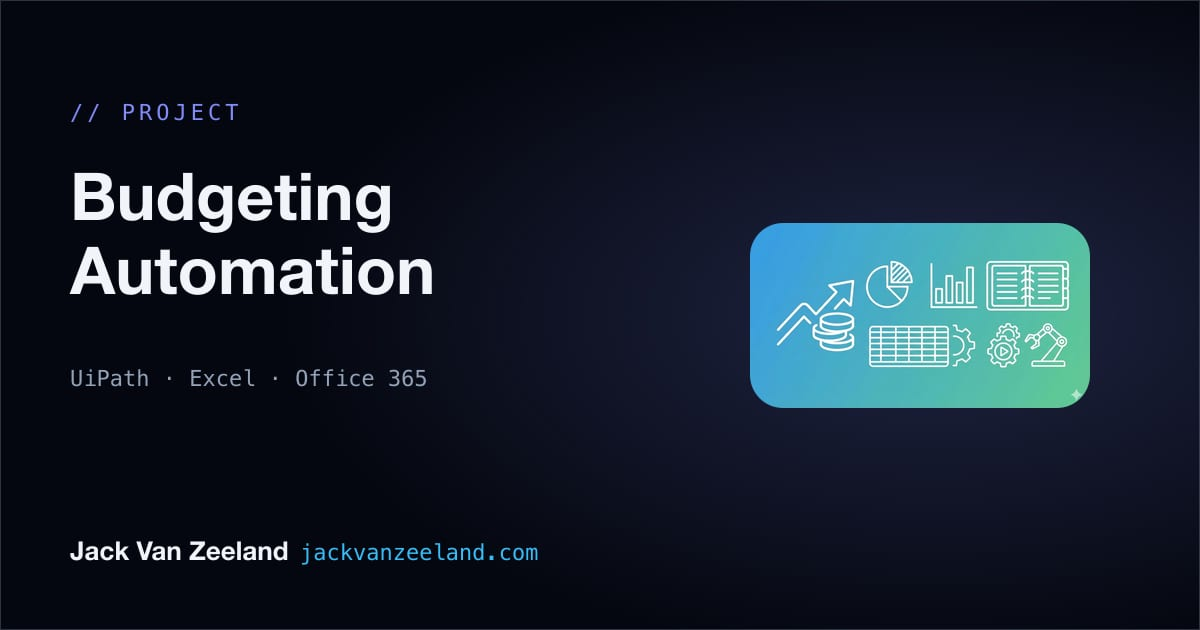
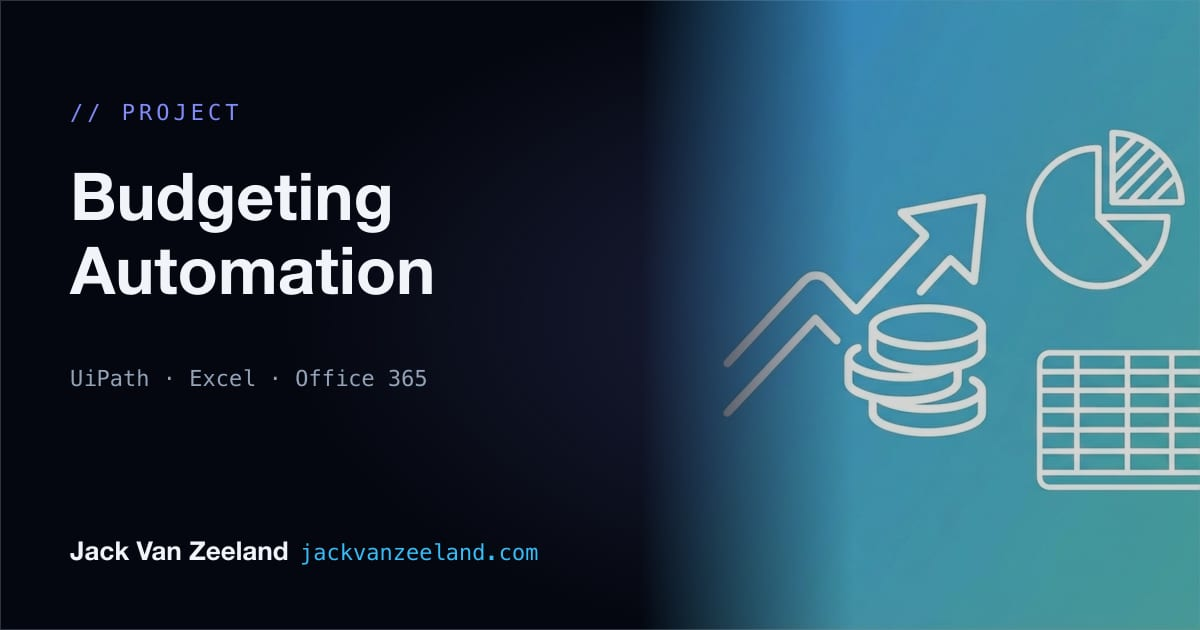
Auto-commit: 11 file(s) changed
- public/og/projects/basketball-optimization.jpg
  - public/og/projects/budgeting-automation.jpg
  - public/og/projects/html-gems.jpg
  - public/og/projects/lyric-animator.jpg
  - public/og/projects/qr-code-generator.jpg
  - public/og/projects/reddit-stories.jpg
  - public/og/projects/secret-santa.jpg
  - public/og/projects/uipath-queue-processor.jpg
  - public/og/projects/wordle-solver.jpg
  - src/data/projects.ts
  - tests/views-projects.test.ts

diff --git a/src/data/projects.ts b/src/data/projects.ts
@@ -106,7 +106,7 @@ export const PROJECTS: Project[] = [
     tags: ["Sports", "Data"],
     github_link: "",
     image: "superBowlMain.png",
-    imageStyle: "icon",
+    imageStyle: "cover",
     page: "",
     is_interactive: false,
     featured: true,
@@ -124,7 +124,7 @@ export const PROJECTS: Project[] = [
     technologies: ["React", "TypeScript", "Vite"],
     tags: ["Finance", "Tools"],
     github_link: "",
-    image: "mortgageSimulator.jpg",
+    image: "https://jackvanzeeland.com/projects/mortgage-simulator/logo.jpg",
     imageStyle: "icon",
     page: "",
     is_interactive: true,
@@ -143,7 +143,7 @@ export const PROJECTS: Project[] = [
     tags: ["Games", "Data"],
     github_link: "",
     image: "wordleMain.png",
-    imageStyle: "icon",
+    imageStyle: "cover",
     page: "wordle-solver",
     is_interactive: true,
     youtube_link: "",
@@ -163,7 +163,7 @@ export const PROJECTS: Project[] = [
     tags: ["Tools"],
     github_link: "",
     image: "partnerMatchingMain.jpeg",
-    imageStyle: "icon",
+    imageStyle: "cover",
     page: "secret-santa",
     is_interactive: true,
     youtube_link: "",
@@ -181,7 +181,7 @@ export const PROJECTS: Project[] = [
     tags: ["Creative"],
     github_link: "",
     image: "BangerBank.png",
-    imageStyle: "icon",
+    imageStyle: "cover",
     page: "lyric-animator",
     is_interactive: true,
     youtube_link: "",
@@ -199,7 +199,7 @@ export const PROJECTS: Project[] = [
     tags: ["Automation", "Finance"],
     github_link: "",
     image: "budgetingMain.jpeg",
-    imageStyle: "icon",
+    imageStyle: "cover",
     page: "budgeting-automation",
     is_interactive: false,
     youtube_link: "",
@@ -219,7 +219,7 @@ export const PROJECTS: Project[] = [
     tags: ["Sports", "Data"],
     github_link: "https://github.com/jackvanzeeland/basketballLineupAnalysis",
     image: "basketballMain.jpeg",
-    imageStyle: "icon",
+    imageStyle: "cover",
     page: "basketball-optimization",
     is_interactive: false,
     youtube_link: "",
@@ -240,7 +240,7 @@ export const PROJECTS: Project[] = [
     tags: ["Automation", "Creative"],
     github_link: "",
     image: "redditStories.jpeg",
-    imageStyle: "icon",
+    imageStyle: "cover",
     page: "",
     is_interactive: false,
     youtube_link: "https://www.youtube.com/@redditStories_JVZ",
@@ -259,7 +259,7 @@ export const PROJECTS: Project[] = [
     tags: ["Tools", "Artifact"],
     github_link: "",
     image: "professional-qr-code-contact.png",
-    imageStyle: "icon",
+    imageStyle: "cover",
     page: "qr-code-generator",
     is_interactive: true,
     youtube_link: "",
@@ -277,7 +277,7 @@ export const PROJECTS: Project[] = [
     tags: ["Automation", "Tools", "Artifact"],
     github_link: "",
     image: "uipath_logo.jpeg",
-    imageStyle: "icon",
+    imageStyle: "cover",
     page: "uipath-queue-processor",
     is_interactive: true,
     youtube_link: "",
@@ -295,7 +295,7 @@ export const PROJECTS: Project[] = [
     tags: ["Creative", "Artifact"],
     github_link: "",
     image: "ai_generated_html.png",
-    imageStyle: "icon",
+    imageStyle: "cover",
     page: "html-gems",
     is_interactive: true,
     youtube_link: "",

diff --git a/tests/views-projects.test.ts b/tests/views-projects.test.ts
@@ -40,8 +40,10 @@ describe('thumbnail framing', () => {
             .map((c) => c.querySelector('.work-card-title')?.textContent);
         const expected = PROJECTS.filter((p) => p.imageStyle === 'icon').map((p) => p.title);
         expect(iconTitles.sort()).toEqual(expected.sort());
-        // Wordle's file name never matched the old heuristic; it's explicit now
-        expect(iconTitles).toContain('Wordle Algorithm Solver');
+        // Only the standalone apps use their real app icons
+        expect(iconTitles.sort()).toEqual(
+            ['Budget Tracker', 'Journal', 'Lists', 'Mortgage Simulator', 'NameKeep', 'Woku'].sort()
+        );
         projectsView.unmount();
     });
 });
